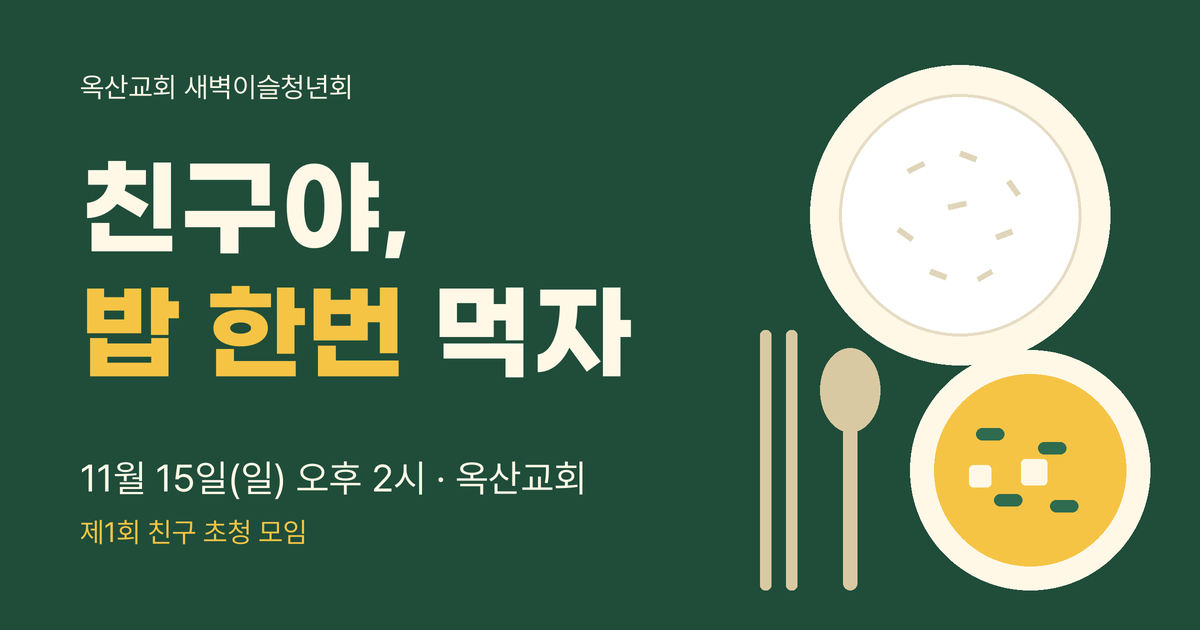
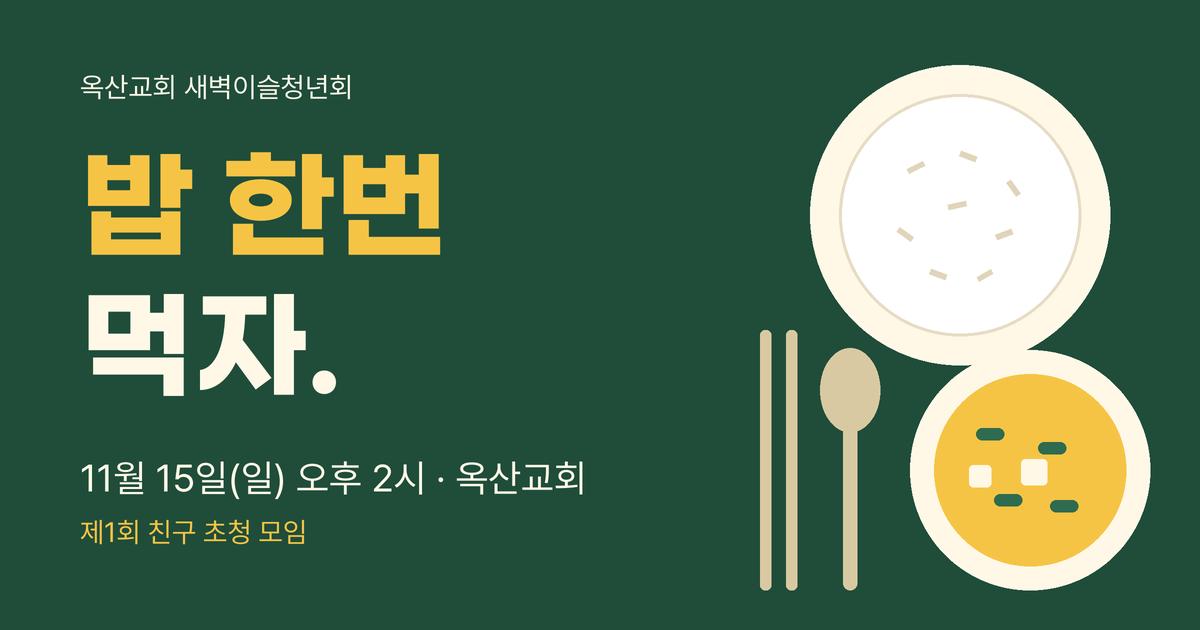
표지 제목을 '밥 한번 먹자.'로 변경, 썸네일과 마무리 문구 수정
Claude-Session: https://claude.ai/code/session_019m4WFGgh1yXe2cmWoSQ8Lu

Changed region(s): [[0.0617, 0.4524, 0.5242, 0.6333], [0.0617, 0.2413, 0.37, 0.4222]]

diff --git a/index.html b/index.html
@@ -39,7 +39,7 @@ body{margin:0;background:var(--bg);color:var(--ink);font-family:'Pretendard',-ap
 .cover-top{display:flex;align-items:center;justify-content:flex-start;gap:10px;font-size:16px;letter-spacing:.01em}
 .cover-head{margin-top:44px}
 .dday{display:inline-block;margin:0;background:var(--yellow);color:var(--green);border-radius:999px;padding:3px 14px;font-size:14px;font-weight:600}
-.cover h1{margin:10px 0 0;font-size:clamp(40px,13vw,58px);line-height:1.15;letter-spacing:-1px}
+.cover h1{margin:10px 0 0;font-size:clamp(40px,13vw,58px);line-height:1.3;letter-spacing:-1px}
 .cover h1 em{font-style:normal;color:var(--yellow)}
 .cover .hook{margin:18px 0 0;font-size:18px}
 .cover>svg{display:block;width:100%;height:auto;margin:44px 0 40px;will-change:transform}
@@ -178,7 +178,7 @@ footer{padding:36px 24px 52px;text-align:center;color:var(--sub);font-size:14px}
   <div class="stamp" aria-label="제1회 친구 초청 모임"><b class="display">제1회</b><span>친구 초청</span></div>
   <div class="cover-head">
   <p class="dday" id="dday" hidden></p>
-  <h1 class="display">친구야,<br><em>밥 한번<svg class="mark" aria-hidden="true" viewBox="0 0 200 12" preserveAspectRatio="none"><path d="M3 8C40 2 80 11 120 6S180 4 197 7"/></svg></em> 먹자</h1>
+  <h1 class="display"><em>밥 한번<svg class="mark" aria-hidden="true" viewBox="0 0 200 12" preserveAspectRatio="none"><path d="M3 8C40 2 80 11 120 6S180 4 197 7"/></svg></em><br>먹자.</h1>
   </div>
   <p class="hook">맨날 말만 했는데 이번엔 진짜로!</p>
   <svg aria-hidden="true" viewBox="0 0 904 392">
@@ -260,8 +260,8 @@ footer{padding:36px 24px 52px;text-align:center;color:var(--sub);font-size:14px}
 
 <section class="end reveal">
   <div class="end-body">
-  <p class="display">친구야, <em>밥 한번</em> 먹자</p>
-  <p class="sub">11월 15일(일) 오후 2시 · 옥산교회</p>
+  <p class="display"><em>밥 한번</em> 먹자.</p>
+  <p class="sub">11월 15일 일요일 오후 2시, 옥산교회에서</p>
   <button class="btn" type="button" id="share">카카오톡으로 보내기</button>
   <p id="copied" role="status" aria-live="polite"></p>
   </div>
